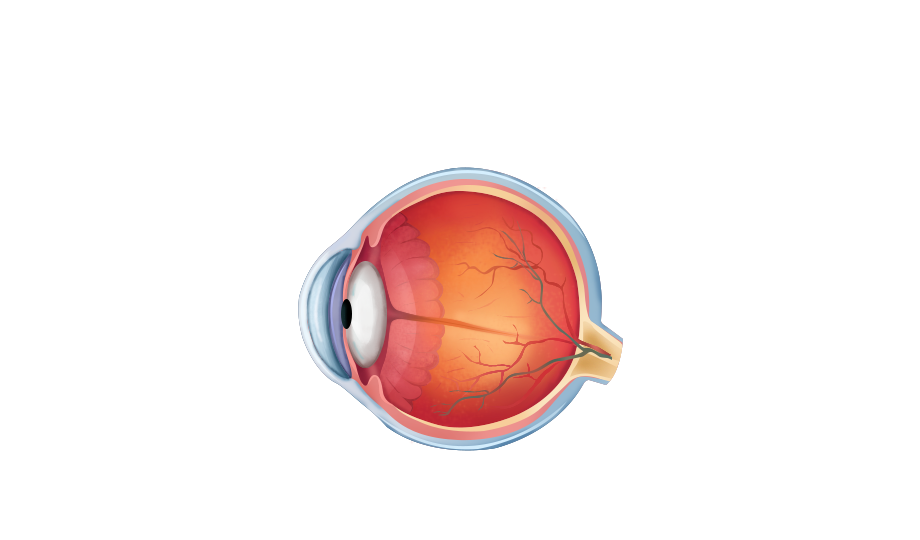
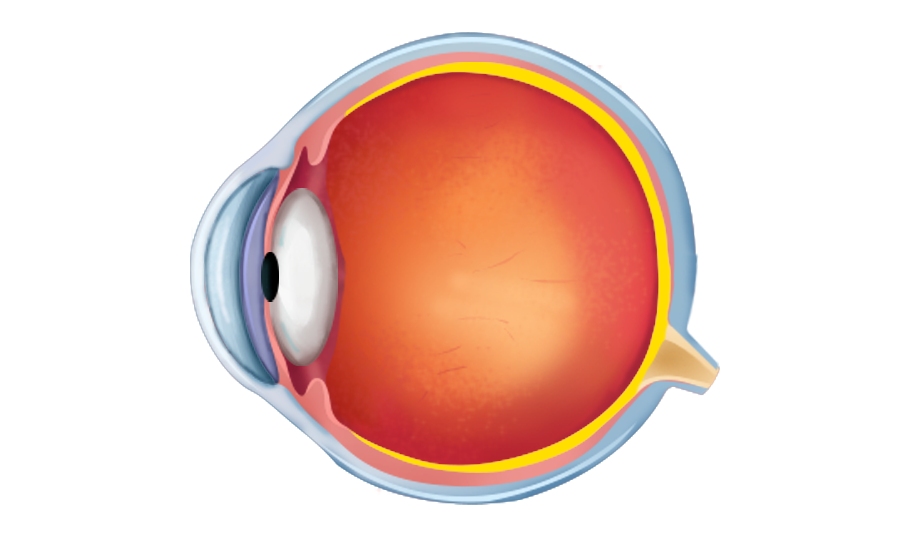
V4 update with corrections.
1. eye asset change
2. feedback won't come at slider value = 0
3. ray diagram update (ray bending on the eye lens and not at the cornia)
4. feedbackArea paragram margin change.

diff --git a/Myopia_and_Hypermetropia/index.html b/Myopia_and_Hypermetropia/index.html
@@ -72,7 +72,6 @@
                         <div class="foreGroundImgContainer">
                             <img src="./img/leftForeground.png" alt="" id="leftForeground">
                         </div>
-
                     </div>
 
                     <div class="imageContainer " id="rightSide">
@@ -100,7 +99,7 @@
                             <div class="roundTop"></div>
                         </div>
                         <div class="labels" id="label3">
-                            <p>Lorem ipsum</p>
+                            <p></p>
                             <div class="hTopBar"></div>
                             <div class="vRightBar" id="vStick3"></div>
                             <div class="roundTopRight" id="round3"></div>
@@ -111,19 +110,14 @@
                             <div class="vRightBarDown zoomOutHand" id="lensLabel">
                                 <div class="roundTopRightDown" id="lensLabelRound"></div>
                             </div>
-
                         </div>
-
                     </div>
 
-                    
-                    
-                    
                     <!-- canvas in visual area -->
                     <canvas class=visualCanvas id="canvas0"></canvas>
                     <canvas class=visualCanvas id="canvas1"></canvas>
                     <canvas class=visualCanvas id="canvas2"></canvas>
-                    
+
                     <!-- Light ray diagram arrow and 'light' text -->
                     <div class="lightArrowContainer">
                         <div class="rays ray1" id="ray1">
@@ -148,8 +142,6 @@
                     <div class="heading" id="visualAreaHeading">
                         <p>Normal Condition</p>
                     </div>
-
-
                 </div>
 
                 <div class="statusDotContainer">
@@ -160,7 +152,6 @@
                     <div class="statusDots"></div>
                     <div class="statusBar" id="behindBar"></div>
                     <div class="statusBar" id="frontBar"></div>
-
                 </div>
 
                 <!-- For Feedback bar -->
@@ -181,7 +172,6 @@
                     <div class="interactionAreaText" id="curvature">Curvature of the lens</div>
                     <button class="interactionOptions" id="leftButton">Inspect myopia</button>
                     <button class="interactionOptions" id="rightButton">Inspect <br> Hypermetropia</button>
-
                 </div>
 
                 <!-- For the Next Buttons -->
@@ -200,7 +190,7 @@
                             </p>
                         </div>
                         <div class="questionImageContainer">
-                            <img src="./img/TempIMG 2.png" alt="" id="questionImg">
+                            <img src="./img/Myopia Question Image.jpg" alt="" id="questionImg">
                         </div>
                         <div class="feedback-bar">
                             <div id="big">Oops!</div>
@@ -226,25 +216,25 @@
                                     <div class="innerCheckBox">
                                     </div>
                                 </div>
-                                <p>A - I</p>
+                                <p>A - i</p>
                             </div>
                             <div class="options" id="option2">
                                 <div class="checkBox">
                                     <div class="innerCheckBox"></div>
                                 </div>
-                                <p>A - II</p>
+                                <p>A - ii</p>
                             </div>
                             <div class="options" id="option3">
                                 <div class="checkBox">
                                     <div class="innerCheckBox"></div>
                                 </div>
-                                <p>B - II</p>
+                                <p>B - i</p>
                             </div>
                             <div class="options" id="option4">
                                 <div class="checkBox">
                                     <div class="innerCheckBox"></div>
                                 </div>
-                                <p>B - I</p>
+                                <p>B - ii</p>
                             </div>
 
                         </div>
@@ -254,9 +244,11 @@
                         <div class="solution">
                             <p id="SolHead">Solution</p>
                             <ul>
-                                <li>Faraway objects are not clearly visible in myopia; a concave lens is used to correct it.</li>
-                                <li>Nearby objects are not clearly visible in hypermetropia; a convex lens is used to correct it.</li>
-                                <li>Hence, A - I and B - II are the correct answers.</li>
+                                <li>Faraway objects are not clearly visible in myopia; a concave lens is used to correct
+                                    it.</li>
+                                <li>Nearby objects are not clearly visible in hypermetropia; a convex lens is used to
+                                    correct it.</li>
+                                <li>Hence, A - II and B - I are the correct answers.</li>
                             </ul>
                         </div>
 
@@ -269,12 +261,13 @@
                     <button class="finish-button">Finish</button>
                 </footer>
             </section>
+
             <!-- LO message -->
             <section class="LO_message">
                 <div class="popup">
                     <div class="text_container">
-                        <p>You have successfully learnt that a diverging lens can be used to correct the defect in a
-                            myopic eye.</p>
+                        <p>You just explored that myopia can be corrected using a concave lens, and hypermetropia can be
+                            corrected using a convex lens.</p>
                     </div>
                     <div class="tick_mark_container">
                         <div class="ellipse2"></div>

diff --git a/Myopia_and_Hypermetropia/scripts/index_script.js b/Myopia_and_Hypermetropia/scripts/index_script.js
@@ -923,6 +923,9 @@ function sliderFunction() {
                Object.assign(feedbackArea.style, { opacity: 1, top: '1090rem', background: yellowGradient });
             }, 500);
          }
+         else {
+            Object.assign(feedbackArea.style, { opacity: 0, top: '1122rem' });
+         }
 
          // Drawing the lenses
          Lens.clearRect(contexts[1]);
@@ -1053,6 +1056,9 @@ function sliderFunction() {
                Object.assign(feedbackArea.style, { opacity: 1, top: '1090rem', background: yellowGradient });
             }, 500);
          }
+         else {
+            Object.assign(feedbackArea.style, { opacity: 0, top: '1122rem' });
+         }
 
          // Drawing the lens
          Lens.clearRect(contexts[1]);
@@ -1163,12 +1169,12 @@ function changeCanvasVariablesZoomOut() {
    Lens.height = canvasHeight * 0.28;
    Lens.width = canvasWidth * 0.04;
 
-   pointsX = [ray1StartingPositionX, Lens.x + 1, canvasWidth * 0.785 + 1, canvasWidth * 0.801 + 1, retinaPosition];
+   pointsX = [ray1StartingPositionX, Lens.x + 1, canvasWidth * 0.785 + 1, canvasWidth * 0.809 + 1, retinaPosition];
 
    // Ray variables
    ray1.startX = ray1StartingPositionX;
    ray1.startY = ray1StartingPositionY;
-   ray1.spread = canvasHeight * 0.1;
+   ray1.spread = canvasHeight * 0.098;
    ray1.endX = pointsX[1];
 
    ray2.type = 'parallel';
@@ -1180,7 +1186,8 @@ function changeCanvasVariablesZoomOut() {
    ray3.startX = ray2.endX;
    ray3.startY = ray1StartingPositionY;
    ray3.endX = pointsX[3];
-   ray3.focusPoint = ray3.endX + canvasWidth * 0.03;
+   ray3.focusPoint = ray3.endX + canvasWidth * 0.09;
+   ray3.focusPoint = retinaPosition + canvasWidth * 0.3;
    ray3.spread = ray2.getEndSpread();
 
    ray4.startX = ray3.endX;
@@ -1204,7 +1211,7 @@ function changeCanvasVariablesZoomIn() {
    Lens.height = canvasHeight * 0.28 * 1.3;
    Lens.width = canvasWidth * 0.04 * 1.3;
 
-   pointsX = [ray1StartingPositionX, Lens.x + 1, canvasWidth * 0.715 + 1, canvasWidth * 0.737 + 1, retinaPosition];
+   pointsX = [ray1StartingPositionX, Lens.x + 1, canvasWidth * 0.715 + 1, canvasWidth * 0.74 + 1, retinaPosition];
 
    // Ray variables
    ray1.startX = ray1StartingPositionX;
@@ -1221,7 +1228,8 @@ function changeCanvasVariablesZoomIn() {
    ray3.startX = ray2.endX;
    ray3.startY = ray1StartingPositionY;
    ray3.endX = pointsX[3];
-   ray3.focusPoint = ray3.endX + canvasWidth * 0.03 * 1.3;
+   ray3.focusPoint = ray3.endX + canvasWidth * 0.09 * 1.3;
+   ray3.focusPoint = retinaPosition + canvasWidth * 0.3 * 1.3;
    ray3.spread = ray2.getEndSpread();
 
    ray4.startX = ray3.endX;

diff --git a/Myopia_and_Hypermetropia/styles/style.css b/Myopia_and_Hypermetropia/styles/style.css
@@ -284,7 +284,7 @@ body {
     position: absolute;
     width: 100%;
     left: 0rem;
-    bottom: 0rem;
+    bottom: -5rem;
     z-index: -1;
 }
 
@@ -317,8 +317,8 @@ body {
     top: 0rem;
     right: 0rem;
     height: 100%;
-    width: 69.7%;
-    border-left: 2rem solid white;
+    width: 69.8%;
+    /* border-left: 2rem solid white; */
     background-image: radial-gradient(119.99% 62.42% at 50% 36.33%, #2d0457 0%, #000108 100%);
     transform-origin: right;
     transition: transform 0.5s;
@@ -354,9 +354,9 @@ body {
 
 .eyeImageContainer {
     position: absolute;
-    width: 70%;
-    right: -15%;
-    top: 15%;
+    width: 300rem;
+    right: -12rem;
+    top: 29.75%;
 }
 
 .eyeImageContainer #eyeImg {

diff --git a/Myopia_and_Hypermetropia/styles/question_style.css b/Myopia_and_Hypermetropia/styles/question_style.css
@@ -8,8 +8,8 @@ body {
 
 .background2 .questionImageContainer {
     position: absolute;
-    width: 90%;
-    height: 520rem;
+    width: 984rem;
+    height: 452rem;
     overflow: hidden;
     top: 16%;
     border-radius: 20rem;
@@ -203,7 +203,7 @@ body {
     display: flex;
     align-items: center;
     justify-content: center;
-    background: linear-gradient(0deg, rgba(54, 167, 92, 0.4), rgba(54, 167, 92, 0.4));
+    /* background: linear-gradient(0deg, rgba(54, 167, 92, 0.4), rgba(54, 167, 92, 0.4)); */
     border-radius: 24rem;
     font-family: Gotham SSm;
     font-style: normal;

diff --git a/Myopia_and_Hypermetropia/scripts/question_script.js b/Myopia_and_Hypermetropia/scripts/question_script.js
@@ -61,7 +61,7 @@ submitButton.onclick = function () {
 }
 
 // The arrays for checking correct ans and wrong ans
-var correctResponse = [true, false, true];
+var correctResponse = [false, true, true];
 var numberOfOptions = correctResponse.length;
 var numberOfCorrectOptions = 2;
 var userResponse = [false, false, false];
